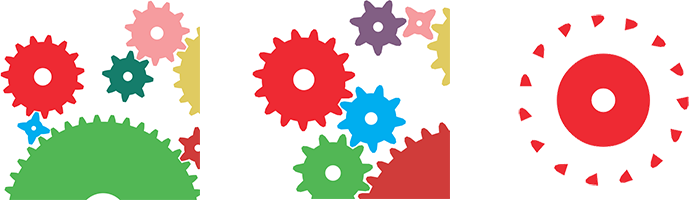
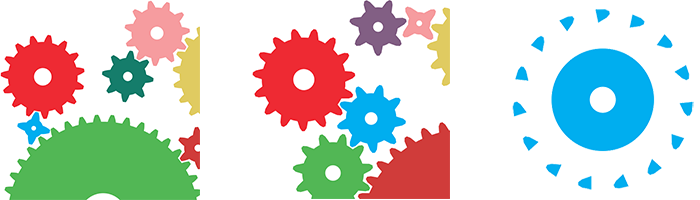
Changed the Raphael gear color to blue.

diff --git a/raphael_gears.js b/raphael_gears.js
@@ -111,6 +111,6 @@ window.onload = function () {
     g.create({
         'x': 250,
         'y': 250
-    }, 15, '#ee2a33', !clockwise);
+    }, 15, '#00aeef', !clockwise);
     
 };
